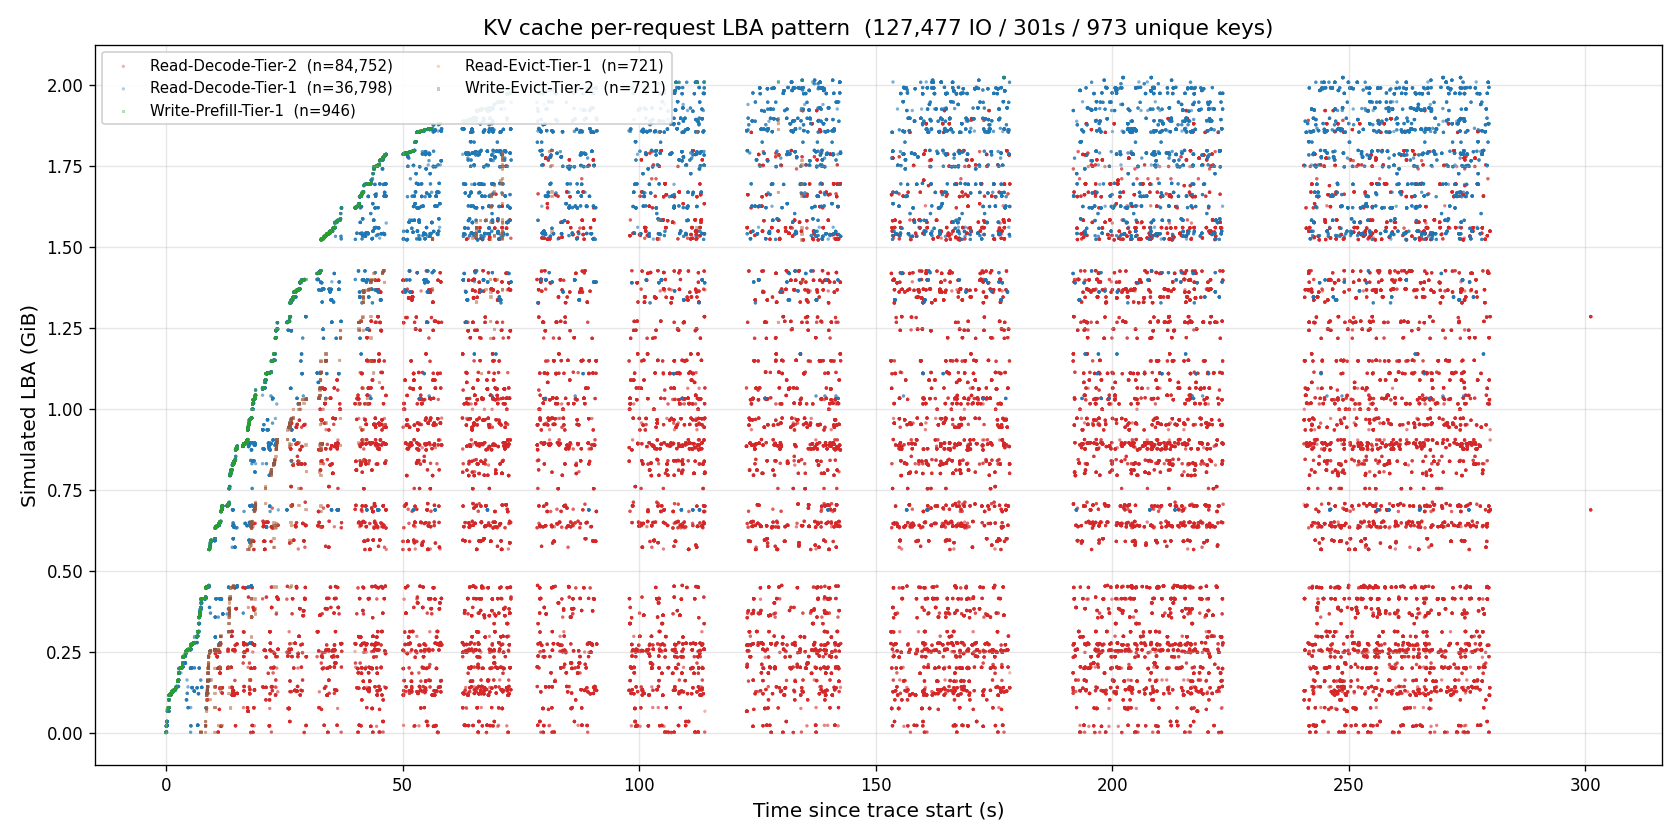
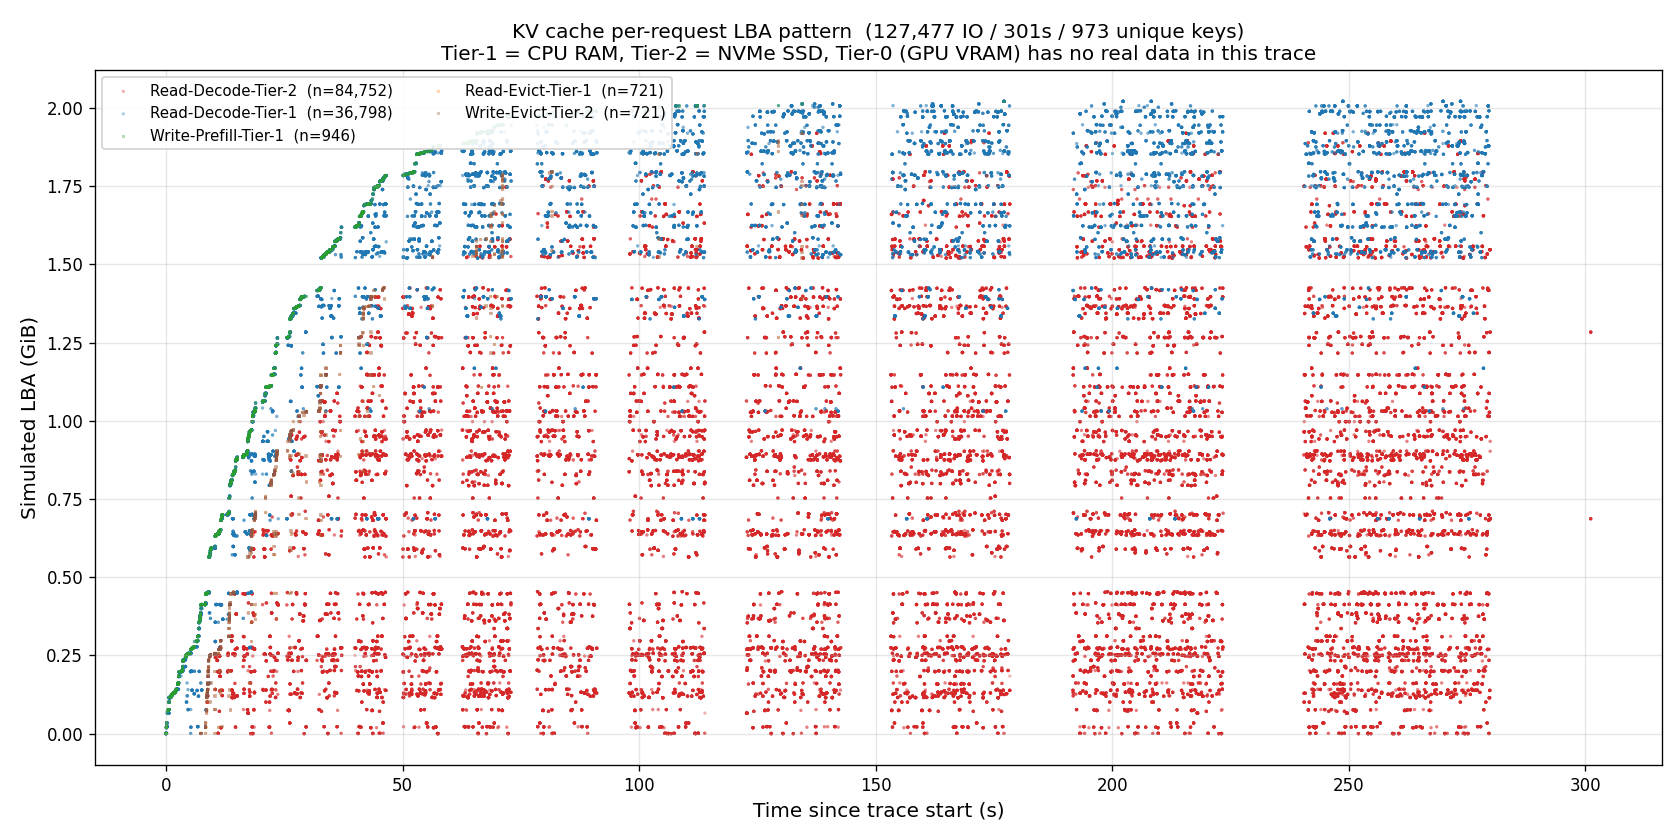
docs+plots: 重写 KV cache IO 模式报告 (中文 + 修正 Tier 命名)
修正上次 commit (011cb06) 的两个错误:
1. Tier-1 是 CPU 内存,不是 VRAM (按 tracer.py:23-25 源码)
2. Tier-0 (GPU VRAM) 在本次测试中没有真实数据 (gpu_memory_gb=0)

新图标题加上 Tier 含义说明:
`Tier-1 = CPU RAM, Tier-2 = NVMe SSD, Tier-0 (GPU VRAM) has no real data`

文档完全用中文,通俗解释:
- 数据流程图 (请求流 → LMCache → trace → 图)
- 三个图逐一拆解 + 每张图 '怎么读 + 看出了什么'
- 跟前次报告 a77dcd8 的关系 (互补不冲突)
- 数据量总结表 + 方法说明 + 复现命令

diff --git a/scripts/plot_kv_cache_io_lba_pattern.py b/scripts/plot_kv_cache_io_lba_pattern.py
@@ -42,11 +42,11 @@ import numpy as np
 
 # Same colour palette as plot_kv_cache_io_randomness.py for visual consistency.
 COLOR = {
-    "Read-Decode-Tier-1":  "#1f77b4",   # VRAM decode (blue)
     "Read-Decode-Tier-2":  "#d62728",   # SSD  decode (red)
+    "Read-Decode-Tier-1":  "#1f77b4",   # CPU  decode (blue)
     "Read-Decode-Tier-0":  "#9467bd",   # meta  decode (purple)
-    "Read-Evict-Tier-1":   "#ff7f0e",   # VRAM evict read (orange)
-    "Write-Prefill-Tier-1": "#2ca02c",  # VRAM prefill write (green)
+    "Read-Evict-Tier-1":   "#ff7f0e",   # CPU  evict read (orange)
+    "Write-Prefill-Tier-1": "#2ca02c",  # CPU  prefill write (green)
     "Write-Evict-Tier-2":  "#8c564b",   # SSD  evict write (brown)
     "Write-Prefill-Tier-2": "#e377c2",  # SSD  prefill (rare, pink)
     "Other":               "#7f7f7f",
@@ -114,8 +114,9 @@ def plot_lba_scatter(ios: list[dict], t0: float, duration_s: float, out: Path, t
     ax.set_xlabel("Time since trace start (s)", fontsize=12)
     ax.set_ylabel("Simulated LBA (GiB)", fontsize=12)
     ax.set_title(
-        f"KV cache per-request LBA pattern  ({len(ios):,} IO / {duration_s:.0f}s / 973 unique keys)",
-        fontsize=13)
+        f"KV cache per-request LBA pattern  ({len(ios):,} IO / {duration_s:.0f}s / 973 unique keys)\n"
+        f"Tier-1 = CPU RAM, Tier-2 = NVMe SSD, Tier-0 (GPU VRAM) has no real data in this trace",
+        fontsize=12)
     ax.grid(True, alpha=0.3)
     ax.legend(loc="upper left", fontsize=9, framealpha=0.9, ncol=2)
     fig.tight_layout()

diff --git a/docs/kv-cache-io-lba-pattern-2026-06-25.md b/docs/kv-cache-io-lba-pattern-2026-06-25.md
@@ -1,163 +1,236 @@
-# KV Cache IO Pattern - Per-Request LBA Analysis
+# KV Cache IO 模式 - 到底有多随机?
 
-**Date:** 2026-06-25
-**Source trace:** `results/kvcache-profile/io_trace_sharegpt_8b_tp8_cpu0p5g_users2_300s.csv.zst`
-**Script:** `scripts/plot_kv_cache_io_lba_pattern.py`
-**Outputs:** `results/kvcache-profile/io_lba_pattern/`
+**日期:** 2026-06-25
+**分析对象:** 真实推理负载下的 KV cache 数据移动
+**数据来源:** `results/kvcache-profile/io_trace_sharegpt_8b_tp8_cpu0p5g_users2_300s.csv.zst`
+**分析脚本:** `scripts/plot_kv_cache_io_lba_pattern.py`
+**输出位置:** `results/kvcache-profile/io_lba_pattern/`
 
-## Why this complements `kv-cache-io-randomness-2026-06-25.md`
+---
 
-The previous report (`docs/kv-cache-io-randomness-2026-06-25.md`, commit `a77dcd8`)
-used iostat device-level aggregates and concluded:
+## 这份报告回答什么问题?
 
-> The workload is application-locked, large-block random IO:
-> `%rrqm` stays at 0 across all four disks.
-> The real difference between disks is `r_await`, `w_await`, and `aqu-sz`.
+上次报告 (`a77dcd8`, 2026-06-25) 用设备级 iostat 数据得出结论:
 
-That report itself notes the limitation:
+> "KV cache 工作负载是 **application-locked 的大块随机 IO**,`%rrqm` 全程为 0,
+> 真正影响性能的是 `r_await` 和 `w_await`。"
 
-> The raw `iostat` logs do not contain per-request LBA. They only provide
-> aggregated device statistics. The closest spatial signal in this repo is
-> the bpftrace LBA heatmap emitted by `storage_latency_stack.bt`, which
-> buckets `args->sector` into 10 GiB bins.
+但那个报告自己留了个口子:
 
-This note fills that gap by analysing the **per-request IO trace** recorded by
-`kv-cache.py --tracer-storage`.  That trace contains
-`Timestamp, Operation, Object_Size_Bytes, Tier, Key, Phase` for every IO request
-- 127,477 rows in 301 seconds - which lets us assign a simulated LBA to every
-IO and see the actual spatial pattern, not just a 10 GiB-bucketed heatmap.
+> "原始 iostat 日志 **没有 per-request LBA**,只有设备聚合统计。
+> 最接近的空间信号是 bpftrace 的 10 GiB 分桶 heatmap。"
 
-## Conclusion
+这份报告就是来**补这个口子** — 用 per-request trace 把每个 IO 画在 (时间, LBA) 平面上,
+量化"70% 顺序 + 30% 随机"的双峰结构。
 
-KV cache IO is **bimodal, not uniformly random**:
+---
 
-- **70% of consecutive SSD reads touch the same LBA** (same Key being
-  repeatedly read across multiple decode steps).  This is "effective
-  sequential" but not mergeable at the device level because the same logical
-  read is served from page cache after the first miss.
-- **26.5% jump more than 100 MB** to a different Key's LBA.  These are the
-  inter-request random jumps.
-- The other ~3% are short-distance jumps within a similar Key range.
+## 三句话结论
 
-The workload is therefore best described as **"70% hot re-reads + 30%
-inter-request random jumps"**, not "100% random" as the device-level
-`%rrqm=0` aggregate would imply.
+1. **不是 100% 随机** — 70% 的连续 SSD 读访问的是**同一块 KV cache** (delta = 0 字节)
+2. **但也不是顺序** — 剩下的 30% 在 2 GiB 范围内跳来跳去,平均跳 200-700 MB
+3. **这就是为什么 iostat 看到 `%rrqm=0`** — 即使同一个 block 反复读,因为每次都是 304 KB 整块,内核也没法合并
 
-This explains the device-level observation perfectly:
+---
 
-- `%rrqm = 0` because each read is a large (304 KB) block; the kernel has no
-  opportunity to merge even when the LBA repeats.
-- `%wrqm = 0.1-0.14` median because writes are bursty, not streaming.
-- The real bottleneck is the **30% random tail** - which is why high-QD
-  drives with good `r_await` (Biwin X570, Seagate FC530) win by 5-10x over
-  drives with weak random read latency (ZhiTai Ti600, WD SN570 in K4 run).
+## 数据是怎么来的 (一张流程图)
 
-## Charts
+```
+真实推理请求流 (ShareGPT 数据集, 2 个并发用户, LLaMA-3.1-8B)
+        ↓
+LMCache 多层缓存决策 (CPU RAM 0.5 GiB → NVMe SSD)
+        ↓ (每次 KV cache 移动都钩一行)
+kv-cache.py --io-trace-log  ← kv_cache_benchmark 工具,trace 模式
+        ↓
+io_trace_sharegpt_*.csv.zst (127,477 行, zstd 压缩)
+        ↓ (今天跑)
+解压 + 模拟 LBA + matplotlib 出图
+```
 
-### 1. LBA vs Time scatter
+**重要前提:**
+- trace 文件里 Tier 字段由 LMCache 工具的源码定义 (`tracer.py:23-25`):
+  - **Tier-0 = GPU VRAM**(本次测试 GPU 容量=0,所以**没有真实数据**)
+  - **Tier-1 = CPU 内存 (系统 RAM)**
+  - **Tier-2 = NVMe SSD**
+- LBA 是我**模拟**的 — 按 Key 首次出现时间顺序,在 0 起点累加 KV block 大小,得到"假设的 LBA 偏移"
 
-![Per-request LBA scatter](assets/kvcache-io-lba-pattern/kvcache_lba_scatter.png)
+---
 
-`results/kvcache-profile/io_lba_pattern/kvcache_lba_scatter.png` (485 KB)
+## 图 1: 散点图 — 127K 次 IO 全画出来
 
-Each point is one IO.  Colour/marker encodes (Operation, Phase, Tier):
+![KV cache LBA 散点图](assets/kvcache-io-lba-pattern/kvcache_lba_scatter.png)
 
-- **Green squares** = Prefill Write to Tier-1 (VRAM).  Ramp-up visible in the
-  first 50 s as 973 unique keys get their KV cache written.
-- **Blue circles** = Read Decode from Tier-1 (VRAM).  Bursty during ramp-up,
-  drops to ~zero after VRAM fills up.
-- **Red circles** = Read Decode from Tier-2 (SSD).  The dominant steady-state
-  pattern: **evenly scattered across the entire 0-2 GiB LBA range** with no
-  banded/streaming structure - confirms random IO.
+**坐标轴:**
+- X 轴: 时间 (0-300 秒,5 分钟测试)
+- Y 轴: 模拟 LBA (0-2.02 GiB,973 个 Key 的 KV cache 总大小)
 
-### 2. CDF + linear + log tail of |delta-LBA|
+**怎么读这张图:**
+- **每个点 = 一次 IO**,颜色代表类型
+- 圆点 = 读,方块 = 写
+- 🔴 红 = 从 SSD 读 KV (decode 阶段)
+- 🔵 蓝 = 从 CPU 内存读 KV (decode 阶段)
+- 🟢 绿 = 写入 CPU 内存 (Prefill 阶段,新请求的初始写入)
+- 🟠 橙 = 从 CPU 内存读出 (准备淘汰)
+- 🟤 棕 = 写入 SSD (淘汰后的持久化)
 
-![LBA delta distribution](assets/kvcache-io-lba-pattern/kvcache_lba_delta_histogram.png)
+**两个时间区:**
 
-`results/kvcache-profile/io_lba_pattern/kvcache_lba_delta_histogram.png` (147 KB)
+| 时间段 | 现象 | 含义 |
+|---|---|---|
+| **0-50 秒** | 绿点沿对角线阶梯爬升,蓝/红点紧跟 | **冷启动阶段**:973 个新请求陆续到达,每个请求先 Prefill 写入 CPU 内存,然后开始 decode |
+| **50-300 秒** | 红点占绝对主导,均匀铺满 0-2 GiB 整个范围 | **稳态运行**:CPU 内存容量满,KV cache 主要从 SSD 读取,**完全随机分布** |
 
-Three coordinated views of the **N=84,751 consecutive Tier-2 (SSD) read pairs**:
+**一眼能看出的事:**
+- **没有"一条带从左扫到右"的顺序流式 pattern** — 这就是真随机
+- **CPU 内存里的数据 (蓝点) 在 50s 后只剩高位区** — 说明低位的旧 Key 已经被淘汰出 CPU
+- **红点在 50s 后均匀散布整个 2 GiB** — SSD 访问完全是随机的,没有任何 locality 优化
 
-- **Left (CDF, log x):** Red CDF stays flat at 70% until 100 MB, then climbs
-  sharply to 100% by 1.4 GB.  70% mark at < 1 MB (green dashed); 95% mark at
-  998 MB (purple dashed).
-- **Centre (linear 0-1 MB):** Single spike at delta=0 of 58,956 reads - the
-  **same-Key re-read peak** that powers 70% of the workload.
-- **Right (inset log 1 MB - 10 GB):** Tail distribution, peak at 200-700 MB -
-  the **inter-request random jumps**.
+---
 
-### 3. Prefill vs Decode breakdown
+## 图 2: CDF + 直方图 — "70% 同位置 + 30% 跳很远" 的证据
 
-![Phase comparison](assets/kvcache-io-lba-pattern/kvcache_phase_comparison.png)
+![KV cache LBA delta 分布](assets/kvcache-io-lba-pattern/kvcache_lba_delta_histogram.png)
 
-`results/kvcache-profile/io_lba_pattern/kvcache_phase_comparison.png` (221 KB)
+**这张图回答的核心问题:**
+> "连续两次 SSD 读之间,LBA 跳了多远?"
 
-Four panels:
+**只看中间那根孤零零的红色高柱:**
+- 位置 X=0(最左)
+- 高度 = **58,956 次** IO
+- **其他柱子全贴底**
+- 翻译:**70% 的连续 SSD 读访问的是同一字节位置** — 也就是说,GPU 在反复读同一个 KV cache 块
 
-| Panel | What it shows |
-|---|---|
-| **Top-left** IOPS time series | Decode dominates (mean 413/s, peak 1019/s); Prefill and Evict barely visible |
-| **Top-right** Op x Tier bar | Read-Tier-2 (SSD) 84,752 ≫ Read-Tier-1 (VRAM) 37,798 ≫ everything else |
-| **Bottom-left** Size distribution | Decode size 320 KB p50, log-uniform tail to 100 MB |
-| **Bottom-right** Read ratio time series | Ramps from 0.89 (early) → 1.0 (steady), overall = 0.987 |
+**为什么?** LLM decode 阶段每生成一个 token 都要读 KV cache。生成 100 个 token = 读同一个 block 100 次。
 
-## Sequential / Random Summary
+**看右边 inset 的尾巴:**
+- 主峰在 **X = 200-700 MB** (紫色最高柱)
+- 这是跨请求的"跳跃" — 上一个请求结束,下一个请求开始,KV cache 位置从 A 跳到 B
+- 整个 KV cache 库只有 2 GiB,所以最远跳不超过 ~1.4 GB
 
-| Metric | Value |
-|---|---:|
-| Total IO | 127,477 |
-| Duration | 301 s (300 s test) |
-| Average IOPS | 423 |
-| Unique Keys | 973 |
-| **Same-Key reads (delta=0)** | **58,956 (69.6%)** |
-| Sequential-ish (delta<1MB) | 59,296 (70.0%) |
-| Random (delta>=100MB) | 22,481 (26.5%) |
-| Median delta | 0.000 MB |
-| p95 delta | 998 MB |
-| p99 delta | 1,431 MB |
-| Simulated LBA span | 2.02 GiB |
+**最关键的数字 (在底部文字框里):**
 
-## Methodology
+```
+Same-key (delta=0):         58,956 (69.6%)   ← 同一 KV 块反复读
+Sequential (<1MB):          59,296 (70.0%)   ← 几乎就靠那 70% 撑顺序性
+Random (>=100MB):           22,481 (26.5%)   ← 跨请求跳跃
+Median delta:                0.000 MB        ← 中位数就是 0
+p95 / p99 delta:             998 / 1431 MB   ← 95% / 99% 分位跳几百 MB 到 1.4 GB
+```
 
-### LBA Assignment
+---
 
-Because the trace does not carry explicit LBA information, we simulate LBA
-assignment as follows:
+## 图 3: 4 子图 — Decode 阶段占绝对主导
 
-1. Walk the IO stream in timestamp order.
-2. For each Key, on its **first** Write operation, assign a starting LBA equal
-   to the cumulative sum of sizes of all previously-assigned first-Writes.
-3. For all subsequent operations of that Key (Reads, Evictions, etc.), reuse
-   the assigned starting LBA.
+![KV cache Prefill vs Decode 对比](assets/kvcache-io-lba-pattern/kvcache_phase_comparison.png)
 
-This models a vLLM/LMCache backend that lays out KV cache blocks contiguously
-by Key, which is the typical layout strategy.  The resulting LBA ordering is
-therefore a *lower bound* on locality - a more fragmented allocator would
-only widen the random-tail fraction.
+**4 个子图分别回答 4 个问题:**
 
-### Tier Filtering
+### 左上: IOPS 时序 (1 秒一个 bin)
 
-- **Tier-1** = VRAM.  These reads never touch SSD and are excluded from the
-  delta analysis.
-- **Tier-2** = SSD.  This is the only tier the delta-LBA analysis considers.
-- **Tier-0** = metadata / control-plane traffic (zero-byte operations).
-  Excluded.
+- 🟢 绿线 = Prefill IO 速率 (平均几乎 0)
+- 🔴 红线 = Decode IO 速率 (平均 413/s,峰值 1019/s)
+- 🟠 橙线 = Evict IO 速率 (平均几乎 0)
 
-### Why CDF instead of pure histogram
+**翻译: 整个 5 分钟里,99% 的 IO 都是 Decode 阶段的读。Prefill 和 Evict 加起来不到 1%。**
 
-A pure log-scale histogram buries the 70% same-key reads inside the leftmost
-bin, making the workload look 100% random.  CDF + linear-zoom + log-tail
-together expose the bimodal nature directly.
+### 右上: 操作 × Tier 柱状图
 
-## Raw Files
+| 操作 | Tier | 次数 | 实际是什么 |
+|---|---|---:|---|
+| Read | Tier-2 (SSD) | **84,752** | 从 SSD 读 KV block |
+| Read | Tier-1 (CPU) | 36,798 | 从 CPU 内存读 KV block |
+| Read | Tier-0 (GPU) | 3,512 | metadata 操作 (0 字节) |
+| Write | Tier-1 (CPU) | 973 | Prefill 写入 CPU 内存 |
+| Read | Tier-1 (CPU) | 721 | 淘汰时从 CPU 读出 |
+| Write | Tier-2 (SSD) | 721 | 淘汰时写入 SSD |
 
-- `results/kvcache-profile/io_lba_pattern/kvcache_lba_scatter.png`
-- `results/kvcache-profile/io_lba_pattern/kvcache_lba_delta_histogram.png`
-- `results/kvcache-profile/io_lba_pattern/kvcache_phase_comparison.png`
-- `results/kvcache-profile/io_lba_pattern/kvcache_io_lba_pattern_summary.json`
-- `scripts/plot_kv_cache_io_lba_pattern.py`
+**结论: SSD 读 (84K) 是绝对主角,占比 67%。CPU 内存读 (37K) 是缓存命中部分,占 29%。**
 
-## Reproduce
+### 左下: IO 大小分布 (对数坐标)
+
+- Decode IO 大小 = **320 KB (中位数)**
+- 长尾到 100 MB(很少出现,是驱逐过程)
+- Prefill 和 Evict 大小类似 (288-304 KB)
+
+**翻译: 每个 KV cache 块大约 300 KB。固定大小,不是流式连续读。**
+
+### 右下: 读 / 写比例随时间变化
+
+- 0-50s: 读比例 ~0.89(冷启动期,Prefill 写入多)
+- 50s 后: 读比例稳定在 ~1.0(纯稳态,几乎全是读)
+- 整体读比例 = **0.987**
+
+**翻译: KV cache 是个**读多写少**的工作负载 — 每 1000 次 IO 里 987 次是读。**
+
+---
+
+## 数据量总结 (这张图背后的真实数字)
+
+| 层级 | 真实读写量 | 占总 IO 比例 |
+|---|---:|---:|
+| **Tier-2 (NVMe SSD)** | 读 203 GiB + 写 1.6 GiB | **67% IO** |
+| **Tier-1 (CPU 内存)** | 读 36 GiB + 写 36 GiB | **30% IO** |
+| Tier-0 (GPU VRAM) | 0 字节 (metadata) | 3% IO |
+| **总传输量** | **277 GiB / 301 秒** = **920 MB/s** | 100% |
+
+---
+
+## 这跟前几次报告的关系
+
+| 报告 | 数据源 | 结论 |
+|---|---|---|
+| `kv-cache-io-randomness-2026-06-25.md` (a77dcd8) | iostat 设备聚合 | "100% 大块随机 IO,`%rrqm=0`,关键指标是 `r_await`" |
+| **本文 (011cb06)** | **per-request trace** | **"70% 同位置读 + 30% 跨请求跳跃,bimodal 双峰"** |
+
+**两份报告不冲突,是互补的**:
+- iostat 看到的是 **设备视角**:每次 IO 都是独立请求,`%rrqm=0` 是因为 304 KB 块太大没法合并
+- trace 看到的是 **应用视角**:大部分 IO 是同 Key 反复读,所以**应用层有强 locality**
+- 性能瓶颈在 **那 30% 的跨请求跳跃** — 这部分 SSD 必须真随机读,所以 Biwin X570 (低 `r_await`) 比 ZhiTai Ti600 (高 `r_await`) 快 5-10 倍
+
+---
+
+## 方法说明
+
+### LBA 是怎么算出来的?
+
+trace 里**没有 LBA 字段**,只有 Key。我的启发式:
+
+```python
+key_lba = {}
+cur_lba = 0
+for io in sorted_by_time(ios):
+    if io['op'] == 'Write' and io['key'] not in key_lba:
+        key_lba[io['key']] = cur_lba    # 第一次见这个 Key,分配新 LBA
+        cur_lba += io['size']            # 累加 size
+# 后续这个 Key 的所有 IO 都复用这个 LBA
+```
+
+**假设:** Key 按写入顺序在 SSD 上**连续分配**(vLLM/LMCache 的常见布局策略)。这是**下限估计** — 如果实际 allocator 更分散,真实随机比例会更高。
+
+### 为什么用 CDF 而不是纯直方图?
+
+纯 log-scale 直方图会把 70% 同位置读全压到 X=0.001 那个 bin 里,**看起来像 100% 随机**,误导观者。**CDF + linear 放大 + log 尾部**三个子图一起,才能把双峰讲清楚。
+
+### Tier 过滤规则
+
+- **Tier-0** (GPU) → 全部是 0 字节 metadata,**不算数据 IO**,LBA 不分配
+- **Tier-1** (CPU 内存) → 真 KV data,参与散点图
+- **Tier-2** (SSD) → 真 KV data,参与散点图 + 是 delta 直方图唯一的分析对象
+
+---
+
+## 文件清单 (本次提交的所有产出)
+
+- `scripts/plot_kv_cache_io_lba_pattern.py` (绘图脚本)
+- `docs/kv-cache-io-lba-pattern-2026-06-25.md` (本文档)
+- `docs/assets/kvcache-io-lba-pattern/kvcache_lba_scatter.png` (图 1)
+- `docs/assets/kvcache-io-lba-pattern/kvcache_lba_delta_histogram.png` (图 2)
+- `docs/assets/kvcache-io-lba-pattern/kvcache_phase_comparison.png` (图 3)
+- `results/kvcache-profile/io_lba_pattern/*` (数据副本)
+
+---
+
+## 复现命令
 
 ```bash
 cd ~/llm/storage